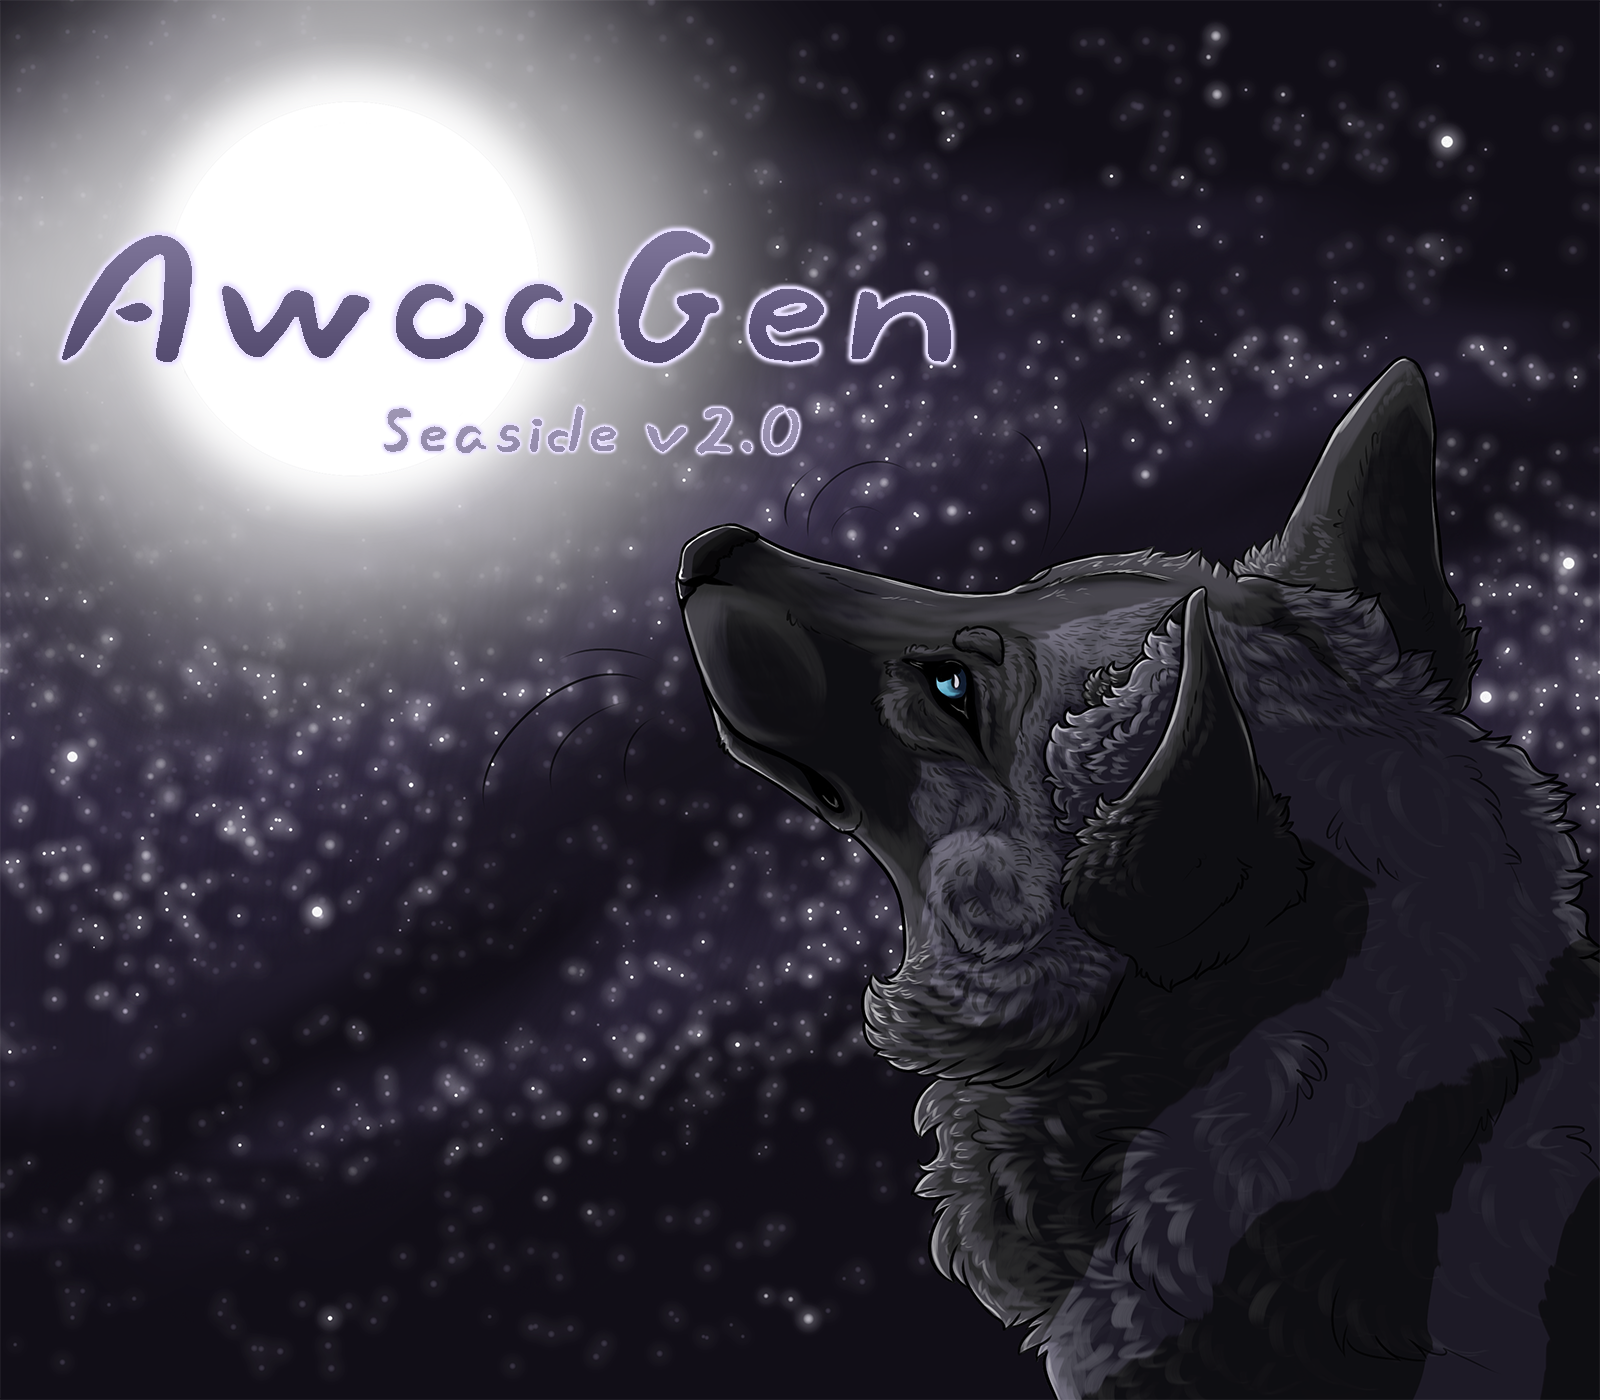
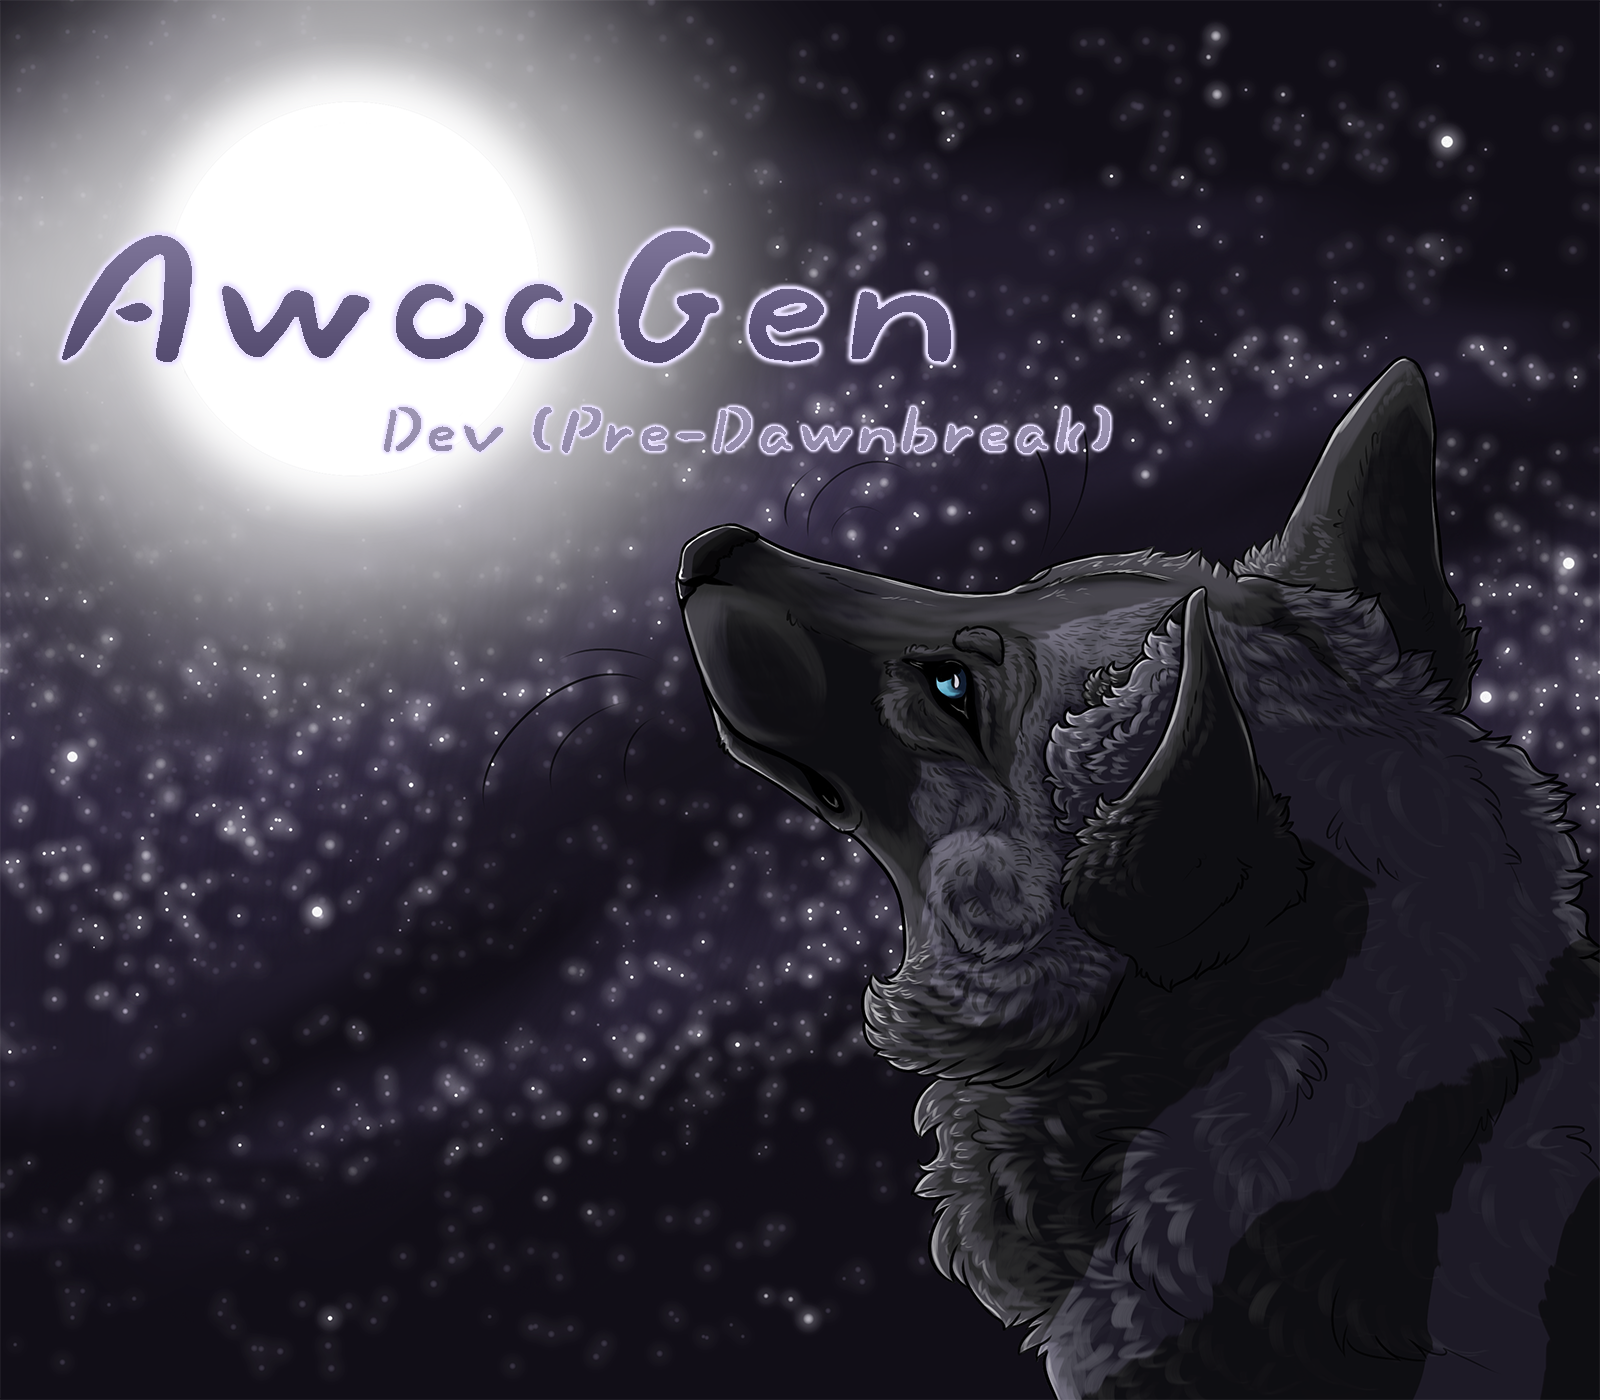
starting dawnbreak

Changed region(s): [[0.25, 0.2764, 0.7188, 0.3379]]

diff --git a/scripts/housekeeping/version.py b/scripts/housekeeping/version.py
@@ -7,7 +7,7 @@ from configparser import ConfigParser
 from platformdirs import user_data_dir
 logger = logging.getLogger(__name__)
 
-VERSION_NAME = "Seaside v2.0"
+VERSION_NAME = "Pre-Dawnbreak"
 # This is saved in the Pack save-file, and is used for save-file converstion.
 SAVE_VERSION_NUMBER = 3
 
